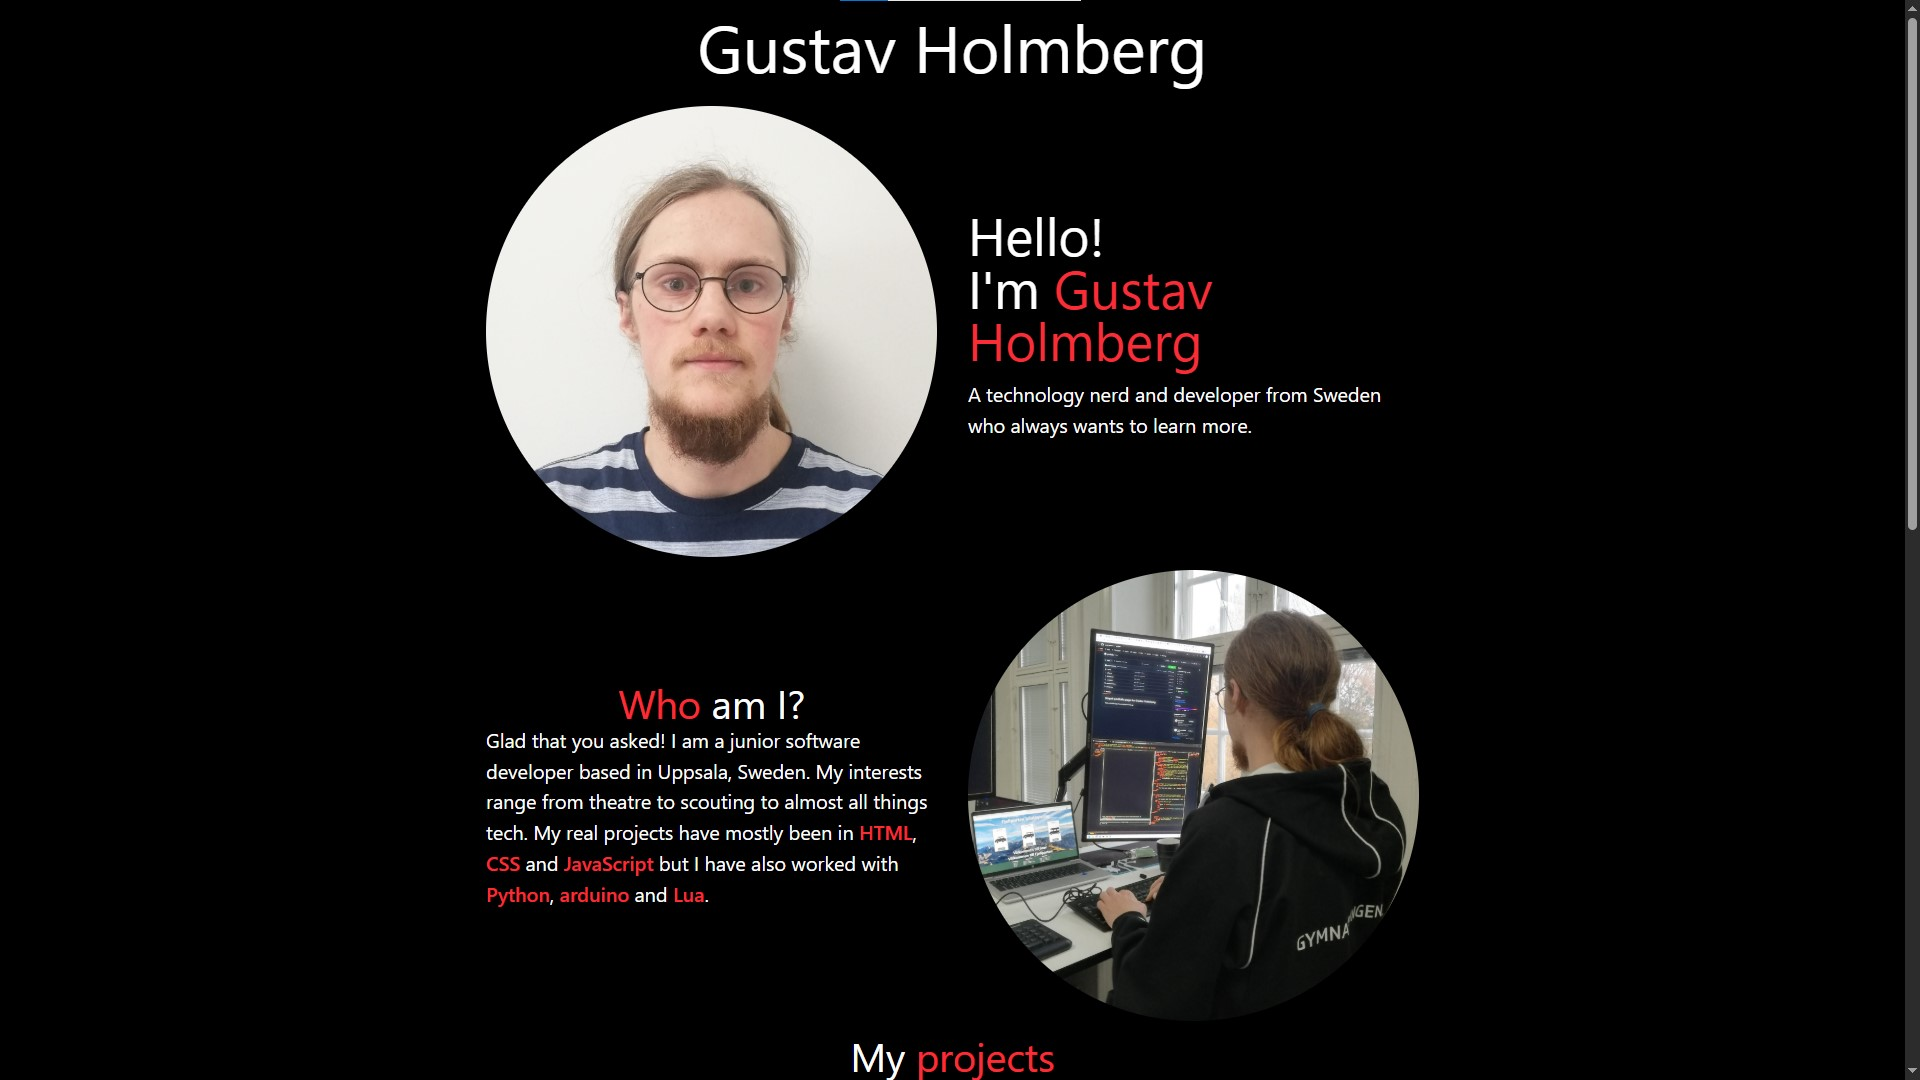
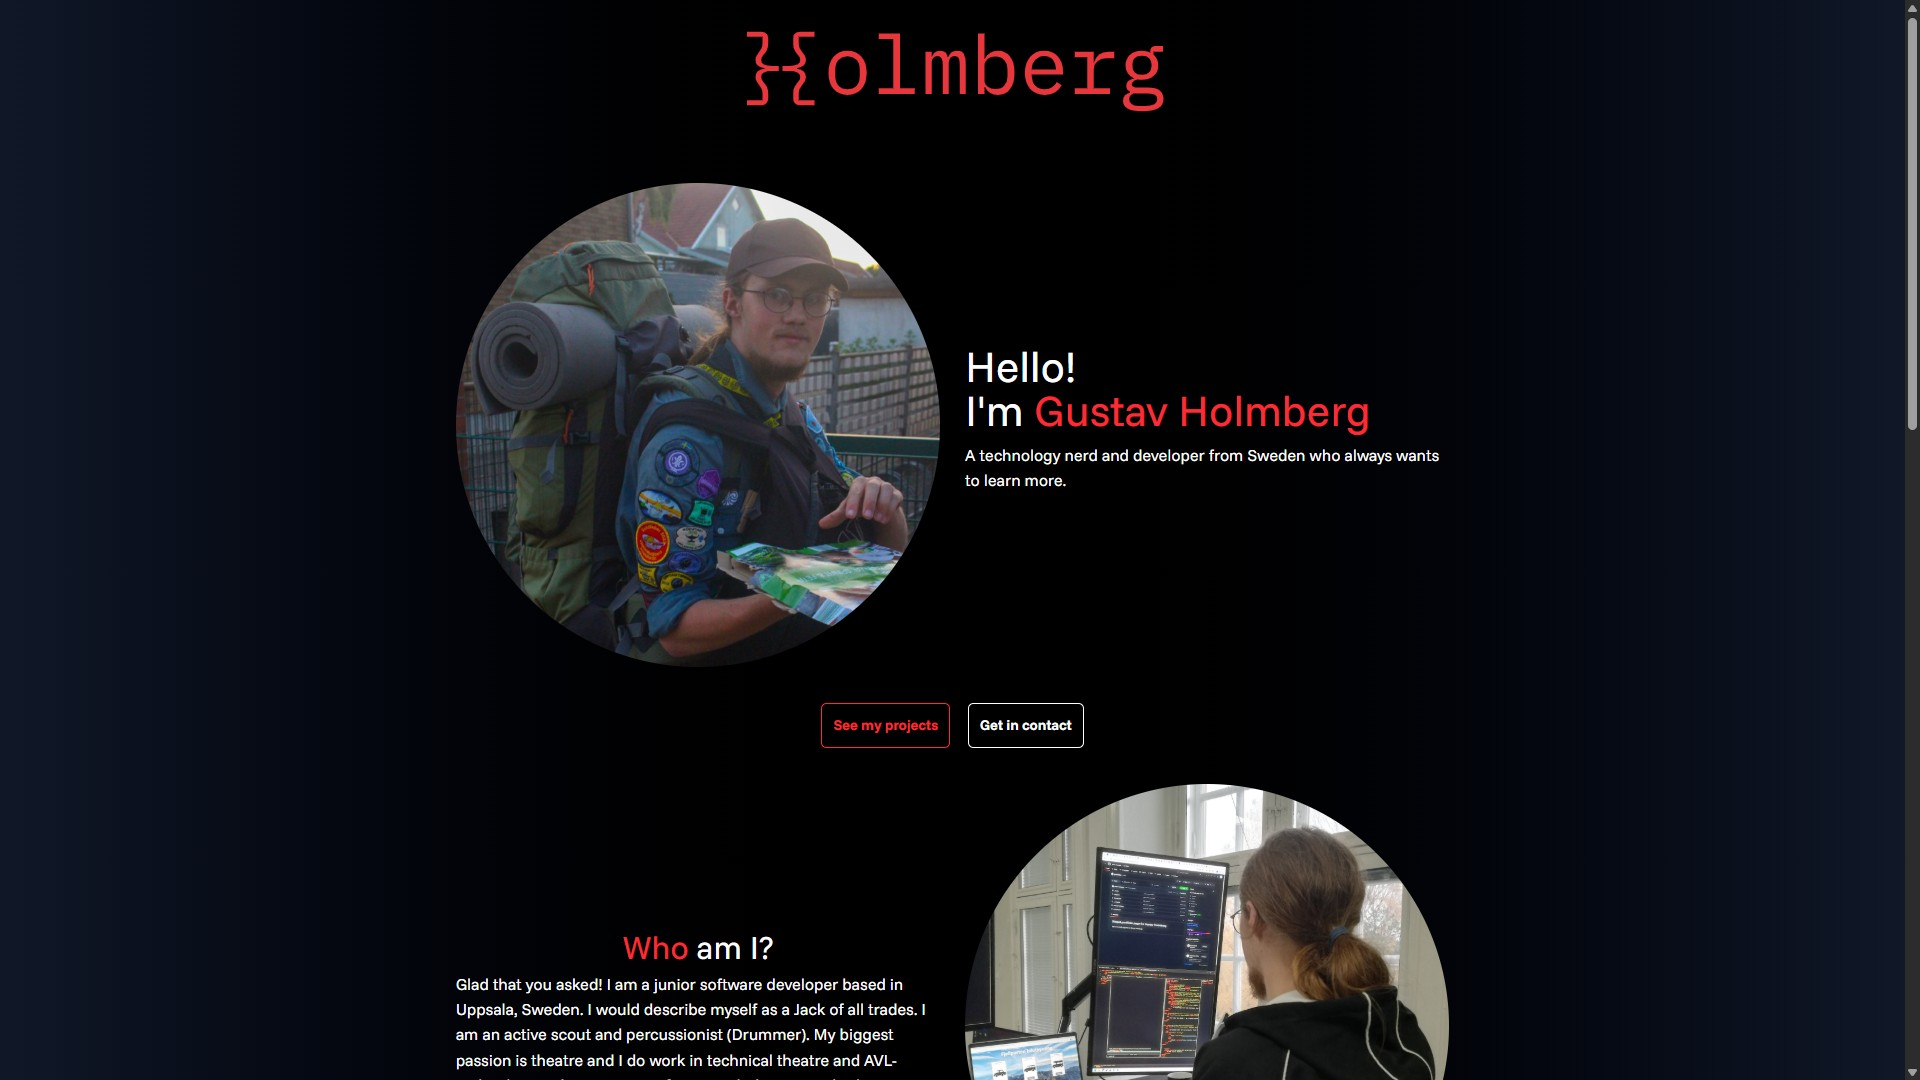
Add Point of sale backend to projects, update portfolio image and update footer

diff --git a/_source/_layouts/default.html b/_source/_layouts/default.html
@@ -15,7 +15,7 @@
         {{ content }}
     </main>
     <footer class="text-center p-3 mt-3">
-        © 2025 Gustav Holmberg
+        © 2026 Gustav Holmberg
     </footer>
 </body>
 </html>
